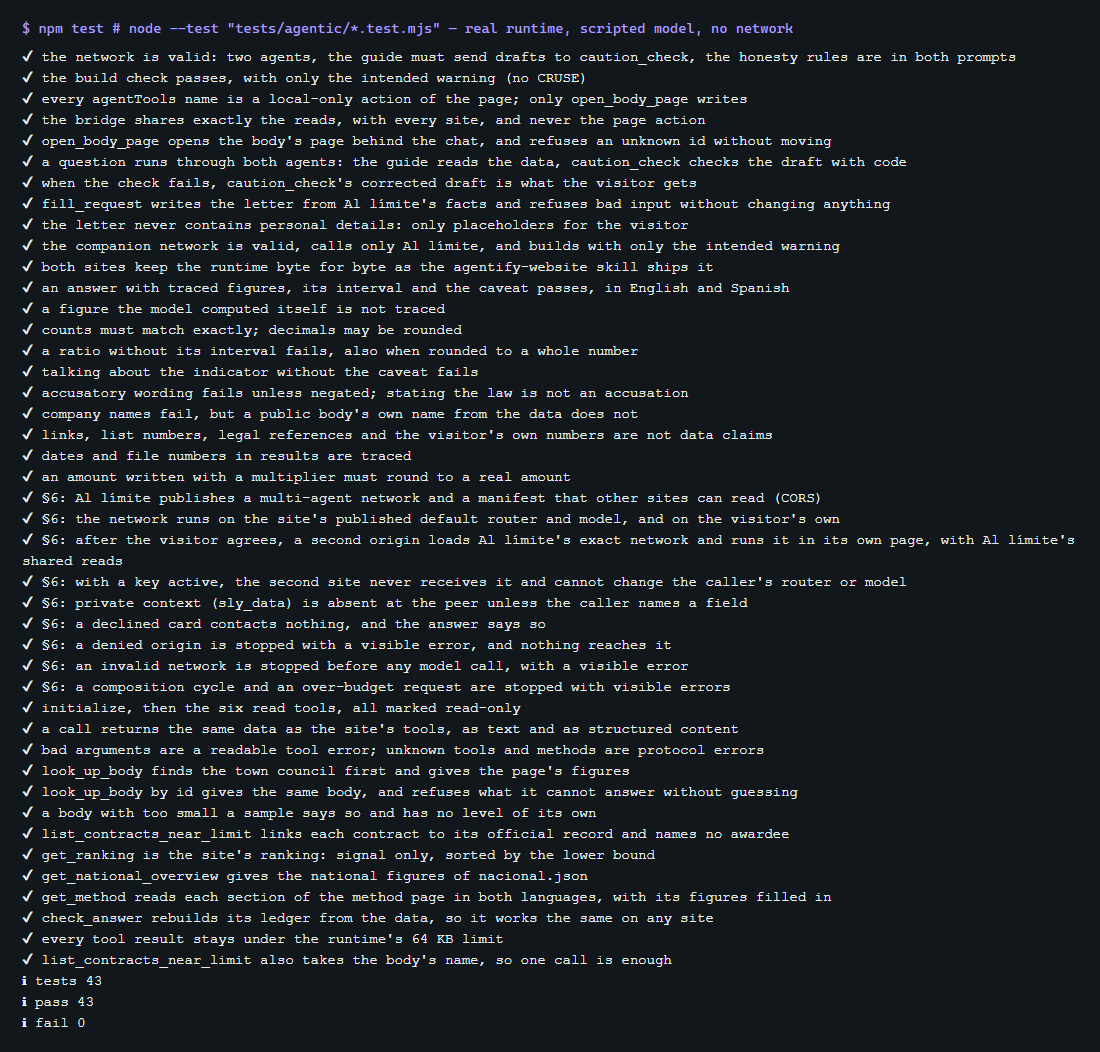
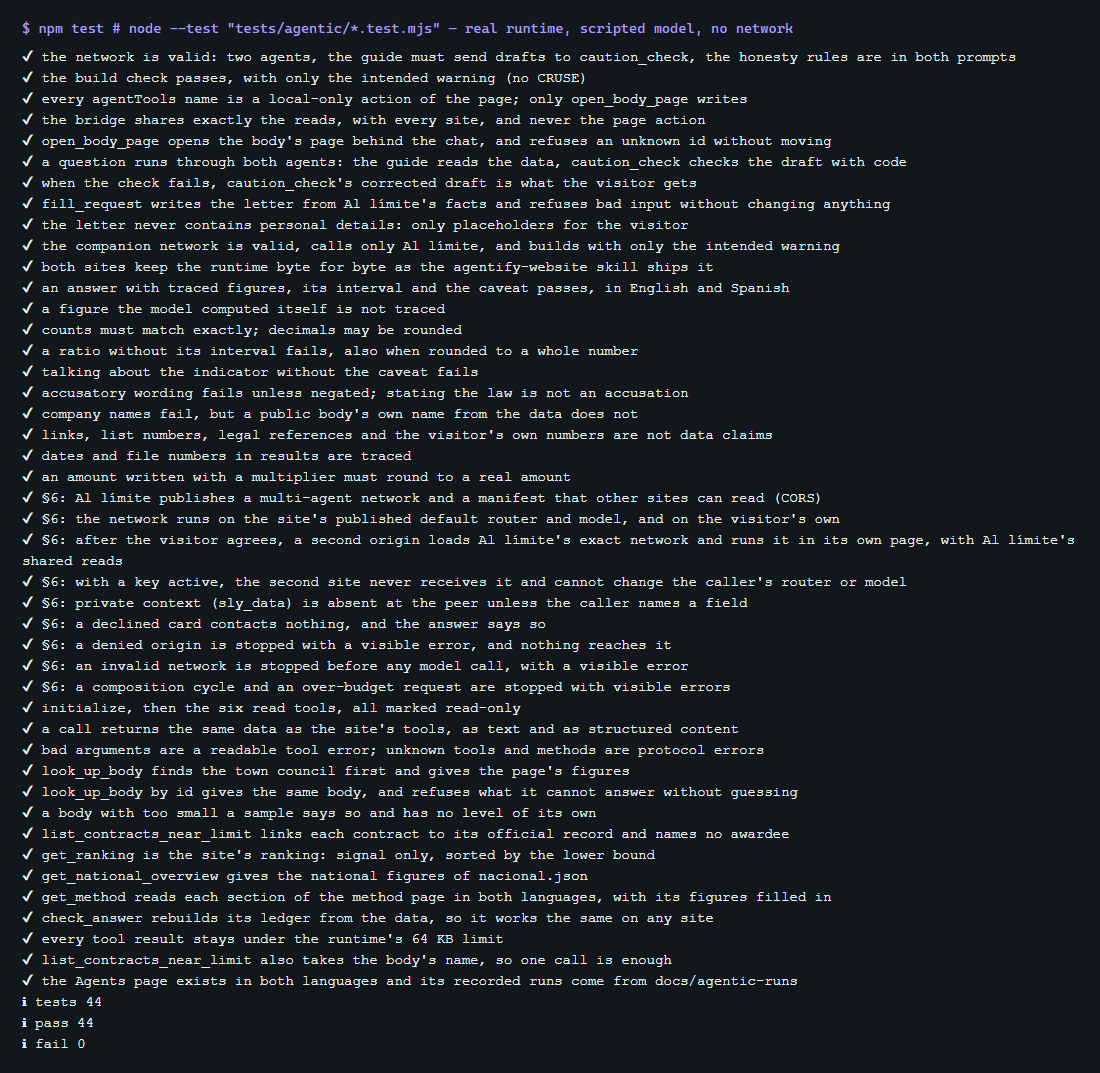
Segundo flujo completo entre sitios, prueba de las ejecuciones mostradas y script de despliegue seguro
- docs/agentic/4-second-site-consent-and-letter.png y la traza qwen3-8b-second-site-2 (Diputación Provincial de Ourense)
- Prueba: cada ejecución de la página «Agentes» coincide palabra por palabra con una traza grabada
- tools/deploy_agentic.ps1: solo desde agentic-web, con las pruebas en verde, enlazando cada carpeta a su proyecto (al-limite-agent, pide-el-expediente) y quitando el enlace al terminar

Changed region(s): [[0.0, 0.0, 0.9891, 0.9734], [0.5255, 0.0, 0.8036, 0.0608], [0.8345, 0.0304, 0.9273, 0.0608]]

diff --git a/docs/agentic-runs/README.md b/docs/agentic-runs/README.md
@@ -14,7 +14,8 @@ call the runtime traced. Nothing was edited. `turn1.png` is the page at the end 
 | `qwen3-8b-site-2` | Qwen3-8B | site, a new page per question | 4 | 0 | 4 pass |
 | `qwen3-8b-site-3` | Qwen3-8B | site | 1 | 1 | 1 pass |
 | `qwen3-4b-second-site` | Qwen3-4B | Pide el expediente (local copy) calling the live Al límite network | 1 | — | The cross-site call ran; the model passed a poor request and filled no letter |
-| `qwen3-8b-second-site` | Qwen3-8B | same | 1 | — | Full flow: consent card, Al límite's network from its live origin, two reads through its bridge, the letter filled with 5 real contracts |
+| `qwen3-8b-second-site` | Qwen3-8B | same | 1 | — | Full flow: consent card, Al límite's network from its live origin, two reads through its bridge, the letter filled with 5 real contracts (212 s) |
+| `qwen3-8b-second-site-2` | Qwen3-8B | same, another body | 1 | — | Full flow again, for the Diputación Provincial de Ourense (256 s); `turn1_full.png` is in `docs/agentic/` |
 
 Totals on the site: Qwen3-4B, 7 questions, `caution_check` 0 times, 4 answers passed the page check and 3 were
 flagged. Qwen3-8B, 7 questions, `caution_check` 2 times, 7 answers passed.
